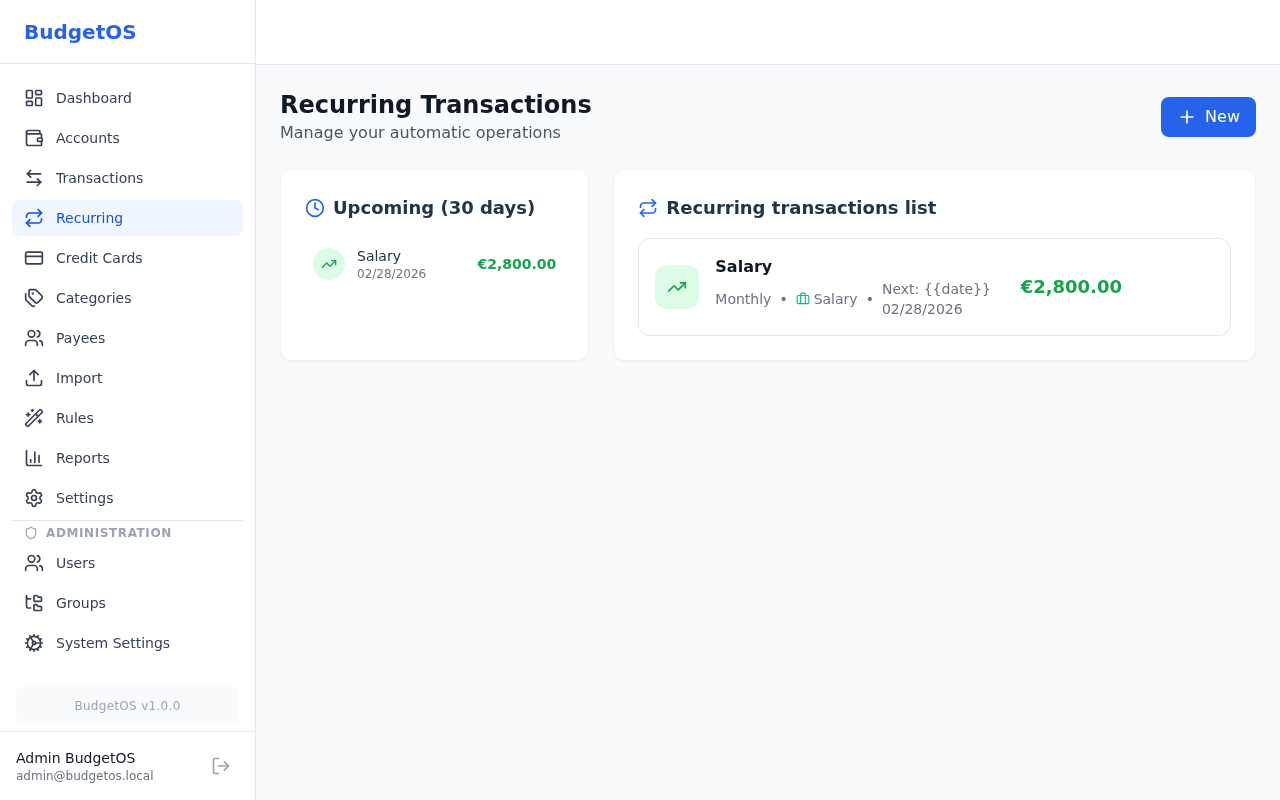
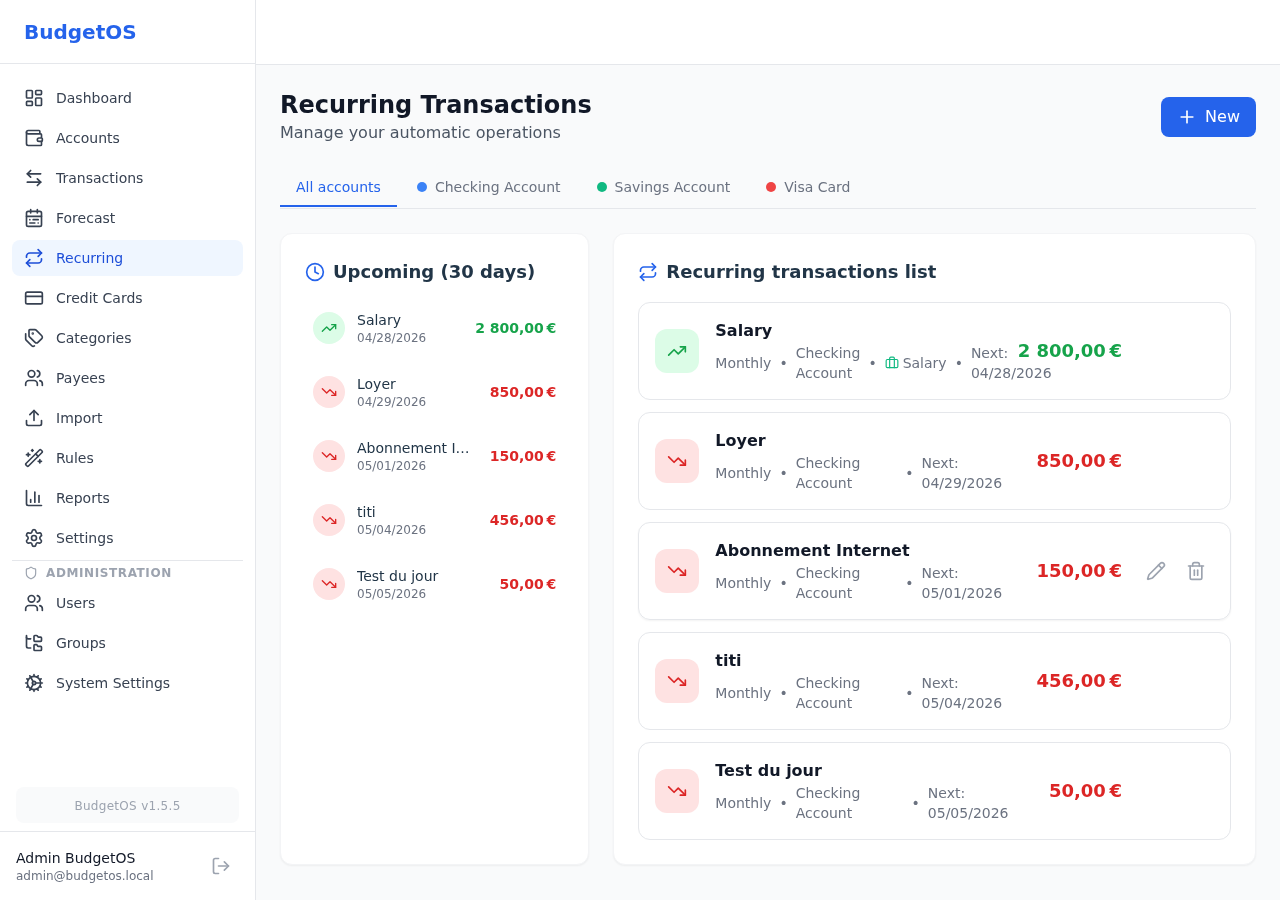
chore(release): Bump version to 1.5.5
Update documentation screenshots (English) for Dashboard, Accounts,
Transactions, Forecast, and Recurring pages. Add Forecast section
to user guide and README screenshots gallery.

diff --git a/doc/user-guide.md b/doc/user-guide.md
@@ -261,7 +261,28 @@ A summary showing:
 
 ---
 
-## 7. Recurring Transactions
+## 7. Forecast
+
+View a merged timeline of actual and projected transactions for any period.
+
+![Forecast](images/forecast.png)
+
+### Features
+
+- **Projected transactions** from recurring entries are shown with a "Projected" badge
+- Default period is **next month** — use the period selector to change
+- Quick filters: "Current month", "Next month", plus all standard period options
+- All standard filters available: account tabs, search, category, type, status
+- Actual transactions already recorded appear alongside projections
+- Deduplication: if an actual transaction matches a recurring occurrence, it's not duplicated
+
+### Account Tabs
+
+Use the account tabs at the top to filter by account. The selected tab persists when navigating between Transactions, Forecast, and Recurring pages.
+
+---
+
+## 8. Recurring Transactions
 
 Set up automatic recurring transactions for regular bills and income.
 
@@ -299,7 +320,7 @@ Each entry shows the frequency, associated category, next occurrence date, and a
 
 ---
 
-## 8. Categorization Rules
+## 9. Categorization Rules
 
 Automate transaction categorization during import.
 
@@ -327,7 +348,7 @@ Rules are evaluated in order. The first matching rule is applied. You can reorde
 
 ---
 
-## 9. Categories
+## 10. Categories
 
 Organize your transactions with customizable categories.
 
@@ -360,7 +381,7 @@ Categories are organized into three columns:
 
 ---
 
-## 10. Payees
+## 11. Payees
 
 Manage your merchants, suppliers, and beneficiaries.
 
@@ -389,7 +410,7 @@ When deleting a payee, you can reassign all their transactions to a different pa
 
 ---
 
-## 11. Reports
+## 12. Reports
 
 Analyze your finances with interactive charts and reports.
 
@@ -420,7 +441,7 @@ Projections are shown at **30, 60, and 90 days**.
 
 ---
 
-## 12. Settings
+## 13. Settings
 
 Manage your profile, security, and preferences.
 

diff --git a/README.md b/README.md
@@ -17,7 +17,7 @@
 
 ## Supported Tags
 
-- `1.5.4`, `1.5`, `1`, `latest`
+- `1.5.5`, `1.5`, `1`, `latest`
 
 ## Quick Reference
 
@@ -194,6 +194,10 @@ This creates:
 | Transactions | Reports |
 |:-:|:-:|
 | ![Transactions](doc/images/transactions.png) | ![Reports](doc/images/reports-trend.png) |
+
+| Forecast | Recurring |
+|:-:|:-:|
+| ![Forecast](doc/images/forecast.png) | ![Recurring](doc/images/planned.png) |
 
 | Bank Import | Categories |
 |:-:|:-:|
